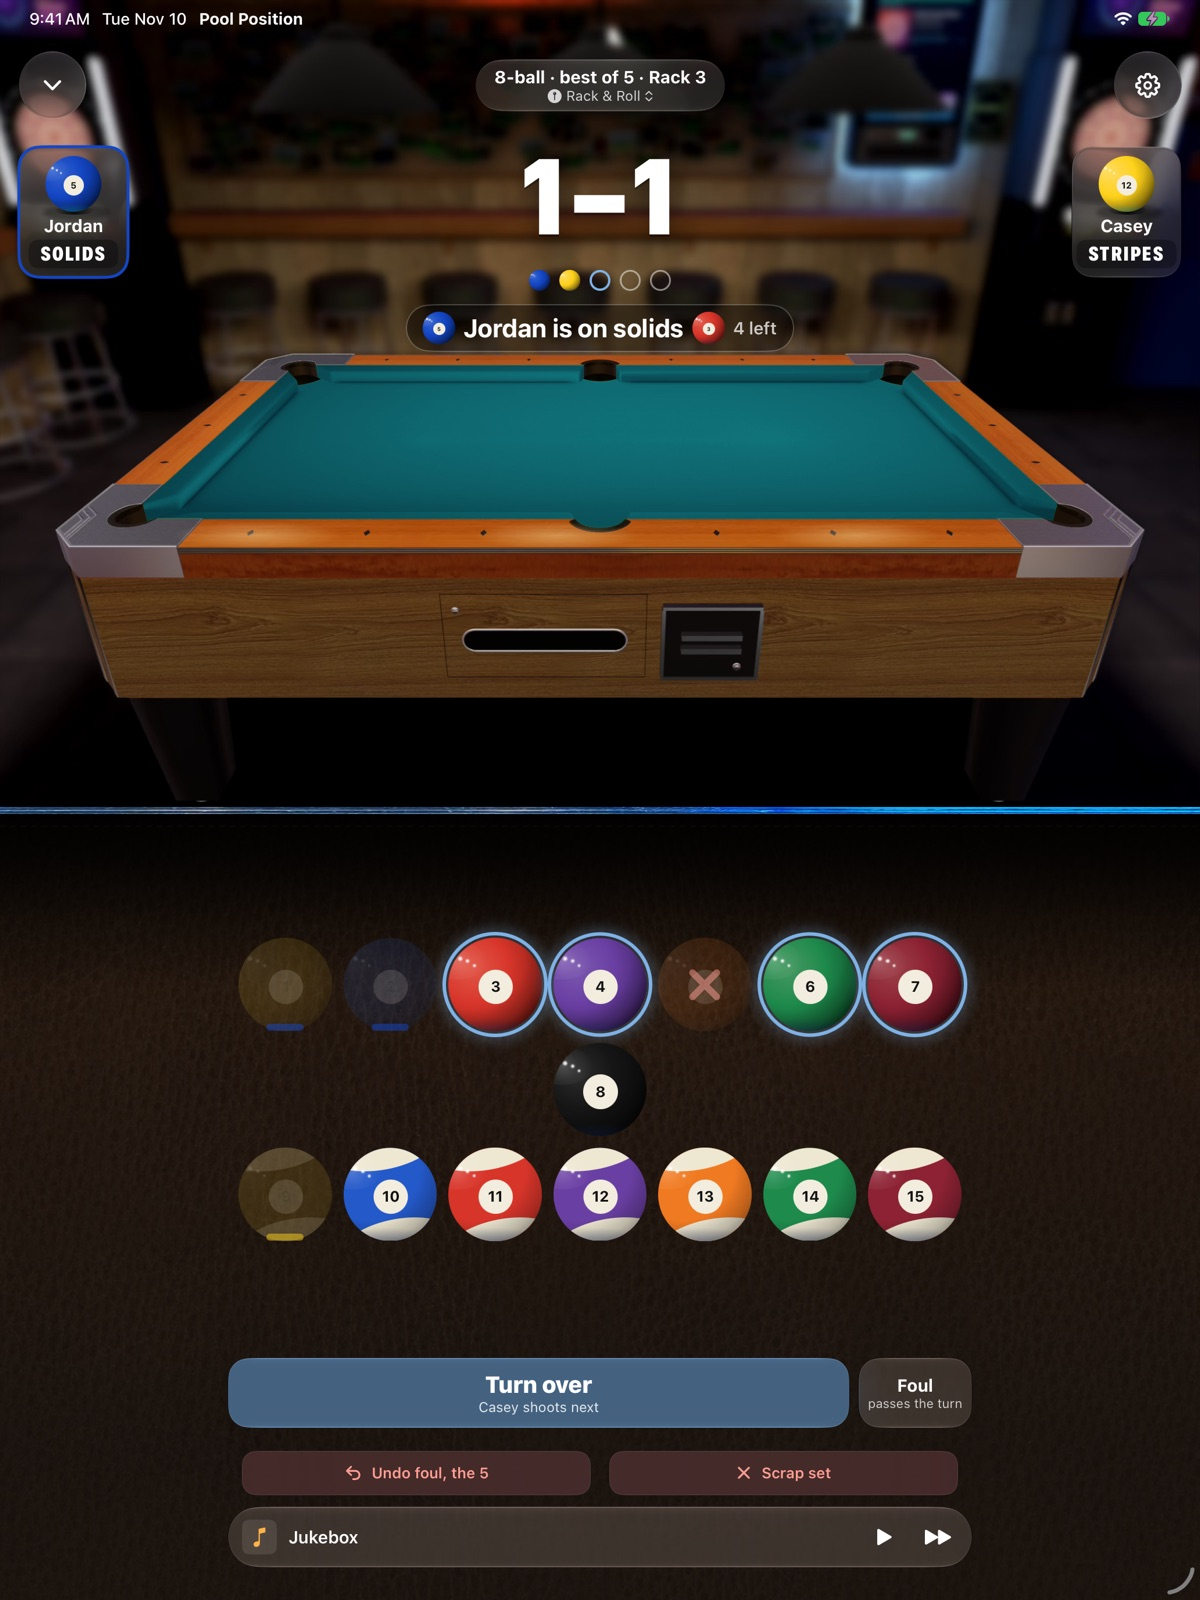
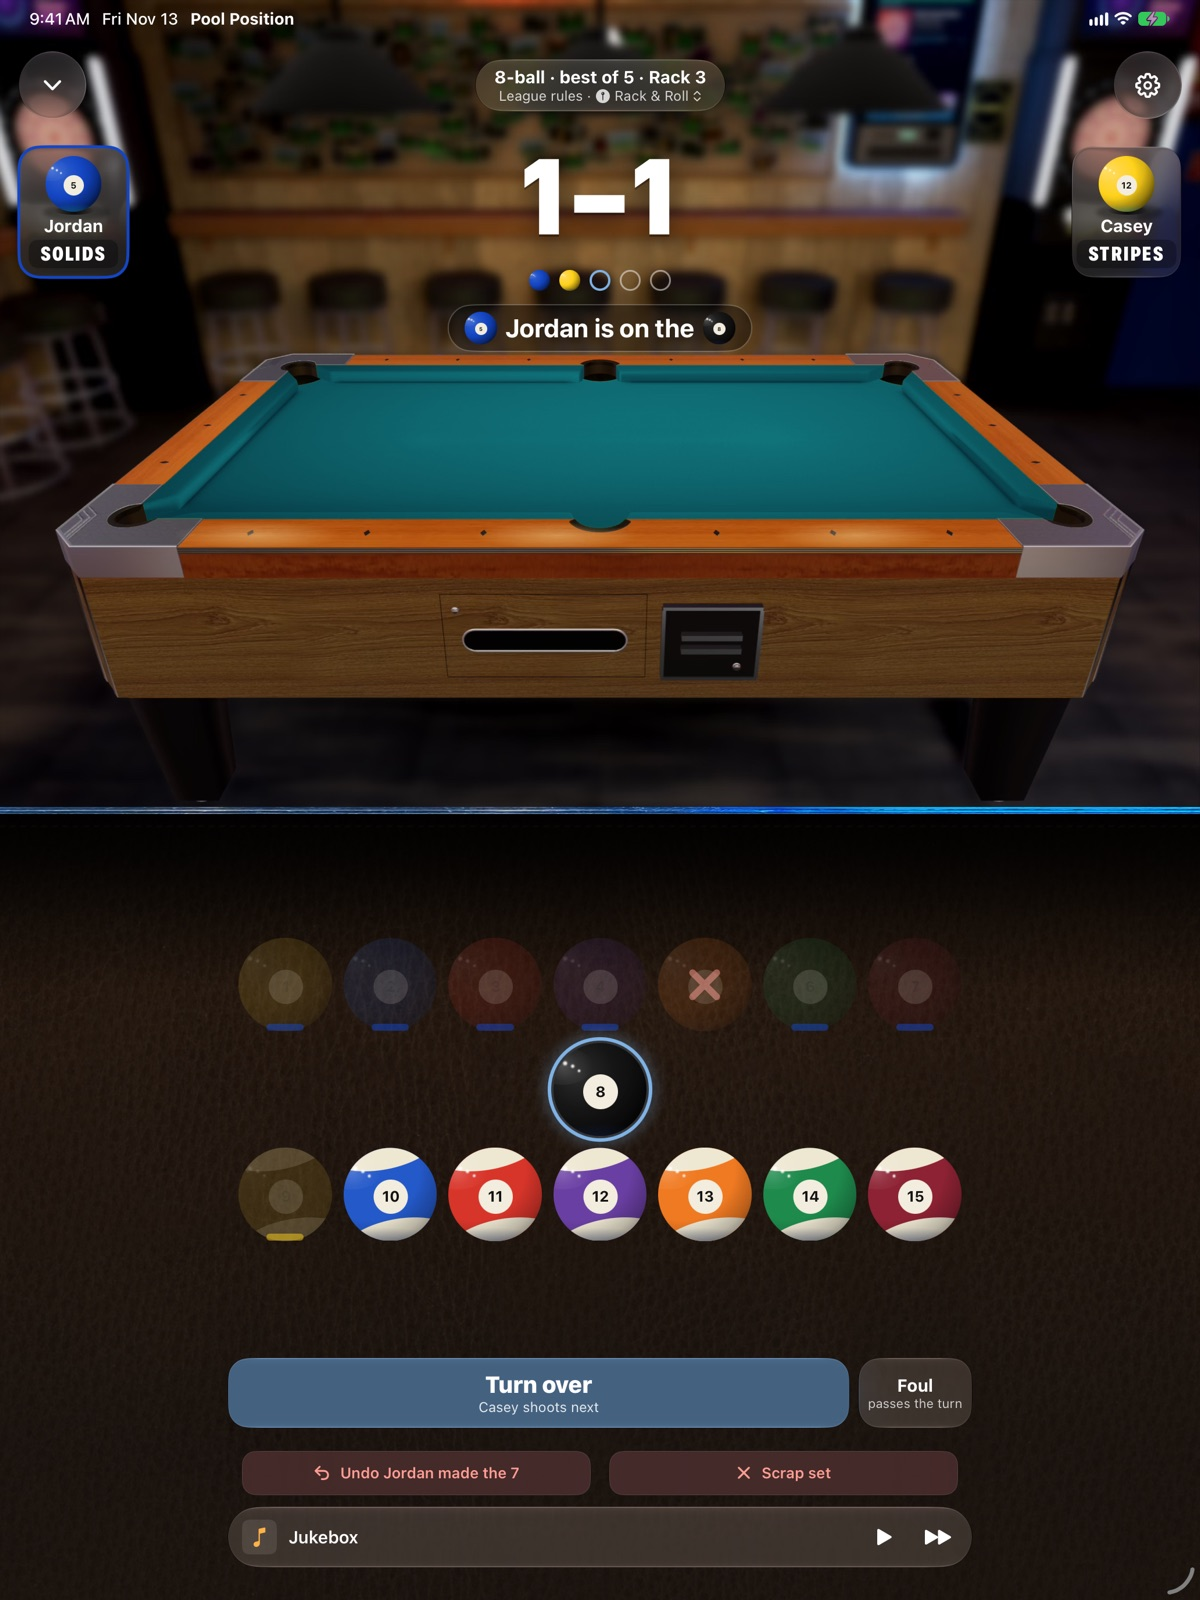
Scorebook page: images retaken from 1.3 (69), copy matched to 1.3 (9-ball by points or racks, rule sets)

diff --git a/scorebook/index.html b/scorebook/index.html
@@ -21,13 +21,13 @@
 </div></header>
 
 <div class="wrap">
-  <section><div class="row"><div class="pair"><img class="phone" src="/img/sb-live.jpg" alt="An 8-ball best of 5: Jordan on solids, the balls to tap below the score"><img class="phone" src="/img/sb-points.jpg" alt="9-ball by points: each player's number and the ball they're on"></div>
-    <div class="txt"><p class="kick">Score the set</p><h2>Tap each ball as it drops.</h2><p>Tap the ball that went in, and Turn over when they miss. At 8-ball the first legal ball sets solids and stripes, and the 8 decides the rack. 9-ball counts points.</p><p>A foul passes the turn, and the top line tells you who breaks the next rack.</p></div></div></section>
+  <section><div class="row"><div class="pair"><img class="phone" src="/img/sb-live.jpg" alt="An 8-ball best of 5: Jordan on the 8, the balls to tap below the score"><img class="phone" src="/img/sb-points.jpg" alt="9-ball by points: each player's number and the ball they're on"></div>
+    <div class="txt"><p class="kick">Score the set</p><h2>Tap each ball as it drops.</h2><p>Tap the ball that went in, and Turn over when they miss. At 8-ball the first legal ball sets solids and stripes, and the 8 decides the rack. 9-ball by points counts a point a ball, and two for the 9.</p><p>A foul passes the turn, and the top line tells you who breaks the next rack.</p></div></div></section>
 
   <section><div class="row flip"><img class="phone solo" src="/img/sb-league.jpg" alt="An 8-ball league race: each player's own number of racks">
-    <div class="txt"><p class="kick">Your format</p><h2>Best of 3, or your league's race.</h2><p>Play a best of 1, 3, 5 or 7. Or play it league style: 9-ball on points, 8-ball as a race in racks, each player with their own number.</p></div></div></section>
+    <div class="txt"><p class="kick">Your format</p><h2>Best of 3, or your league's race.</h2><p>Play a best of 1, 3, 5 or 7. Or play it league style: 9-ball on points, 8-ball as a race in racks, each player with their own number. League, Tournament or Bar rules.</p></div></div></section>
 
-  <section><div class="row"><img class="screen" src="/img/sb-duo.jpg" alt="The Scorebook on an open iPhone Duo">
+  <section><div class="row"><img class="screen" src="/img/sb-duo.jpg" alt="The Table on an open iPhone Duo: the record on top, both game cards below">
     <div class="txt"><p class="kick">Shared, live</p><h2>Every ball, both phones.</h2><p>Invite your opponent and the book lives on both iPhones through iCloud. Each tap shows up on the other phone in seconds. The score sits on the Lock Screen during a set, and widgets keep it on the Home Screen.</p></div></div></section>
 
   <section><div class="row flip"><div class="pair"><img class="phone" src="/img/sb-scenes.jpg" alt="The Table's scene row: Palmer's, Home Lounge, Pub 85 and Classic"><img class="phone" src="/img/sb-halls.jpg" alt="Your halls"></div>

diff --git a/README.md b/README.md
@@ -34,4 +34,5 @@ Pub 85's sign wall and back bar stay out of frame (no readable signs, no bottles
 Grace and Manny are characters). Palmer's drink signs are cropped out and the halls' TVs are dark (`-lightLab notv`).
 Each shot and its launch flags are listed in the shot archive (LIST.md, kept off the site).
 Contact on every page is support@33degrees.studio (no personal email). poolposition.app doesn't link to 33degrees.studio.
+The Scorebook's eight `sb-*.jpg` were retaken 2026-11-14 from Pool Position: Scorebook 1.3 (69), 3ef85550 (ProSim 27's scenes with the renamed signs, the tapped sets, the rule-set chip); `hero-lounge.jpg` is still the 11-10 ProSim lounge.
 Refresh the shots when the halls or controls change.
